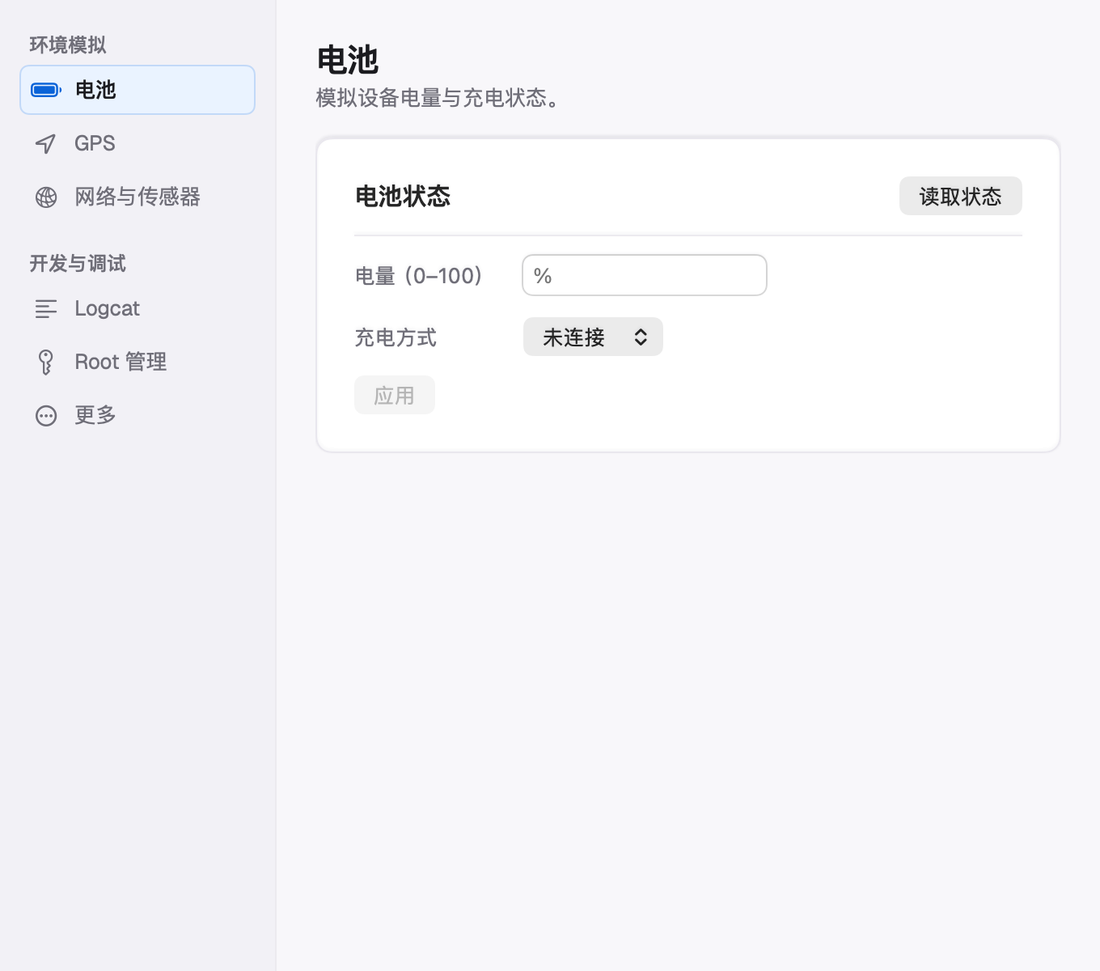
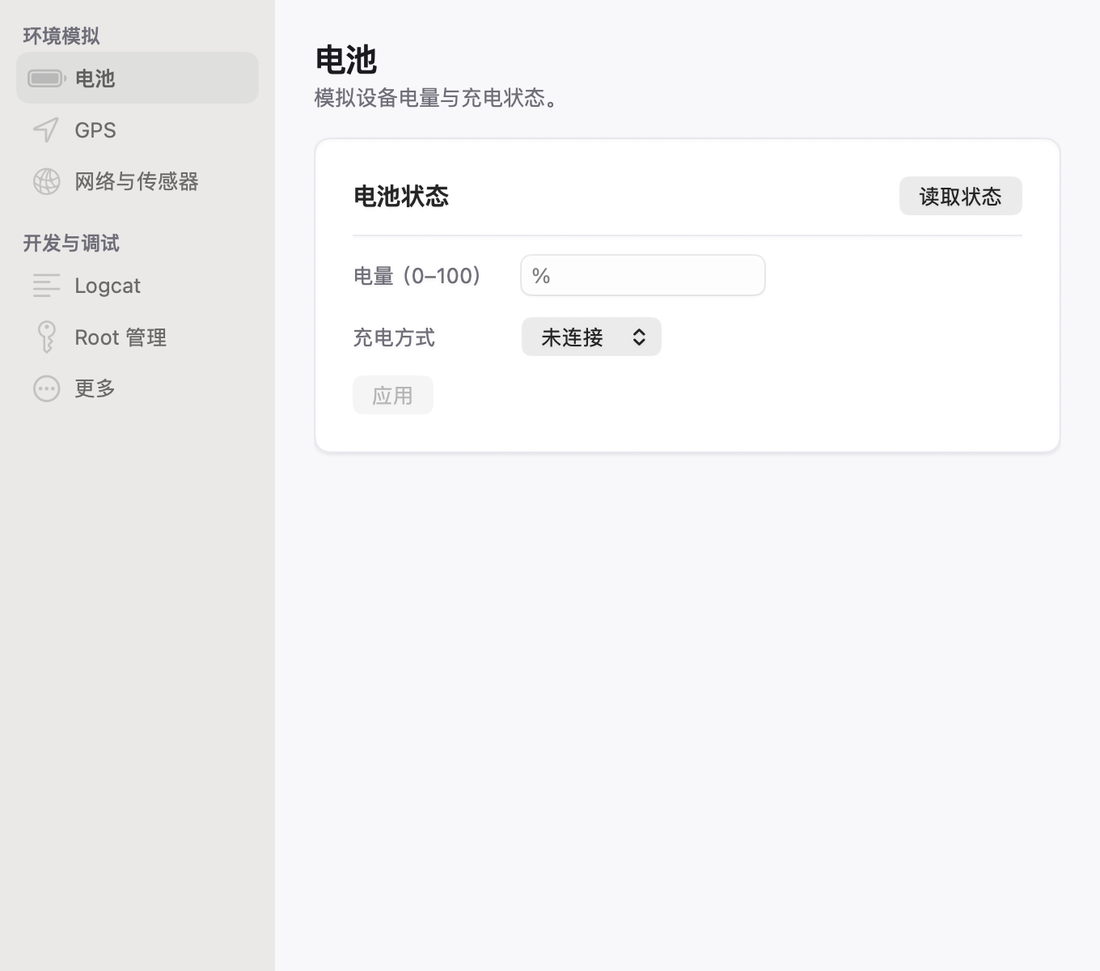
docs(design): record the native-controls pass
Document the NSSearchField, native List/Form/sidebar and borderless-button
replacements, refresh the screenshots and note what stays custom on purpose
(centre title-bar row, cards, player chrome, palette/task overlays).

diff --git a/docs/design/visual-refresh.md b/docs/design/visual-refresh.md
@@ -47,6 +47,28 @@ script), so the two UIs share colour, radius and type roles even while their lay
   two titlebar accessory buttons restyled. Input, recording, snapshots, window sizing and state
   restore are untouched.
 
+## Native controls pass (2026-11)
+
+The first visual pass had replaced several standard controls with custom SwiftUI
+drawings. They now use the AppKit-backed components again, while the card/token
+surfaces stay:
+
+- the centre search is a real `NSSearchField` (native clear button, focus
+  restore after the palette/task overlay closes, Esc clears);
+- toolbar icons are `.borderless` buttons;
+- the device list and installed-app list are native `List(selection:)` rows;
+- the settings and advanced-tools sidebars are native sidebar `List`s;
+- the settings pages are a grouped `Form` with `Section`s (all fields, alerts and
+  the static appearance preview are preserved);
+- the snapshot list is a native `List`, and the player side rail plus logcat
+  strip are borderless buttons.
+
+Still intentionally custom: the centre's title-bar row (an `NSToolbar` move is a
+larger separate change), cards, group labels, status dots, device artwork,
+sheet headers/footers, the player's dark chrome background, and the command
+palette/task centre overlays. The screenshot baselines were regenerated after
+this pass; `test.sh` and the window-lifecycle test still pass.
+
 ## Deviations from the design mockups
 
 The mockups assumed a few data sources the product does not have, so the implementation keeps the
